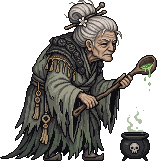
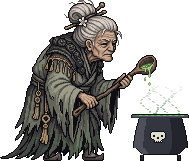
Manh Ba: tu ve vac to hon bang code
Claude-Session: https://claude.ai/code/session_01QQj46swudhcjrv1xLak4k8

diff --git a/game/index.html b/game/index.html
@@ -1738,7 +1738,7 @@ Object.assign(CHM,{"nguudau": {"w": 145, "h": 141, "ax": 72, "ay": 138, "src": "
 /* Hắc/Bạch Vô Thường: thiết kế ChatGPT, chuyển sang nét pixel game bằng PixelLab (24/11) */
 Object.assign(CHM,{"hacvo": {"w": 135, "h": 159, "ax": 67, "ay": 156, "src": "assets/hacvo_am.png", "proc": "walk", "anims": {"idle": {"fps": 8, "f": [[0, 0]]}, "run": {"fps": 8, "f": [[0, 0]]}, "attack": {"fps": 8, "f": [[0, 0]]}, "hit": {"fps": 8, "f": [[0, 0]]}, "death": {"fps": 8, "f": [[0, 0]]}}},"bachvo": {"w": 141, "h": 165, "ax": 70, "ay": 162, "src": "assets/bachvo_am.png", "proc": "walk", "anims": {"idle": {"fps": 8, "f": [[0, 0]]}, "run": {"fps": 8, "f": [[0, 0]]}, "attack": {"fps": 8, "f": [[0, 0]]}, "hit": {"fps": 8, "f": [[0, 0]]}, "death": {"fps": 8, "f": [[0, 0]]}}}});
 /* Diêm Vương, Phán Quan, Mạnh Bà: ảnh chủ game đưa (ChatGPT, 192x192 nền trong suốt, lưới pixel sạch) */
-Object.assign(CHM,{"diemvuong": {"w": 190, "h": 245, "ax": 95, "ay": 242, "src": "assets/diemvuong_am.png", "proc": "walk", "anims": {"idle": {"fps": 8, "f": [[0, 0]]}, "run": {"fps": 8, "f": [[0, 0]]}, "attack": {"fps": 8, "f": [[0, 0]]}, "hit": {"fps": 8, "f": [[0, 0]]}, "death": {"fps": 8, "f": [[0, 0]]}}},"phanquan": {"w": 123, "h": 133, "ax": 61, "ay": 130, "src": "assets/phanquan_am.png", "proc": "walk", "anims": {"idle": {"fps": 8, "f": [[0, 0]]}, "run": {"fps": 8, "f": [[0, 0]]}, "attack": {"fps": 8, "f": [[0, 0]]}, "hit": {"fps": 8, "f": [[0, 0]]}, "death": {"fps": 8, "f": [[0, 0]]}}},"manhba": {"w": 157, "h": 161, "ax": 78, "ay": 158, "src": "assets/manhba_am.png", "proc": "walk", "anims": {"idle": {"fps": 8, "f": [[0, 0]]}, "run": {"fps": 8, "f": [[0, 0]]}, "attack": {"fps": 8, "f": [[0, 0]]}, "hit": {"fps": 8, "f": [[0, 0]]}, "death": {"fps": 8, "f": [[0, 0]]}}}});
+Object.assign(CHM,{"diemvuong": {"w": 190, "h": 245, "ax": 95, "ay": 242, "src": "assets/diemvuong_am.png", "proc": "walk", "anims": {"idle": {"fps": 8, "f": [[0, 0]]}, "run": {"fps": 8, "f": [[0, 0]]}, "attack": {"fps": 8, "f": [[0, 0]]}, "hit": {"fps": 8, "f": [[0, 0]]}, "death": {"fps": 8, "f": [[0, 0]]}}},"phanquan": {"w": 123, "h": 133, "ax": 61, "ay": 130, "src": "assets/phanquan_am.png", "proc": "walk", "anims": {"idle": {"fps": 8, "f": [[0, 0]]}, "run": {"fps": 8, "f": [[0, 0]]}, "attack": {"fps": 8, "f": [[0, 0]]}, "hit": {"fps": 8, "f": [[0, 0]]}, "death": {"fps": 8, "f": [[0, 0]]}}},"manhba": {"w": 189, "h": 161, "ax": 70, "ay": 158, "src": "assets/manhba_am.png", "proc": "walk", "anims": {"idle": {"fps": 8, "f": [[0, 0]]}, "run": {"fps": 8, "f": [[0, 0]]}, "attack": {"fps": 8, "f": [[0, 0]]}, "hit": {"fps": 8, "f": [[0, 0]]}, "death": {"fps": 8, "f": [[0, 0]]}}}});
 // Nhân vật chính lấy từ gói Wuxia Vol.2 (cong_cu/wuxia_sheet.py): nam = Huyền Tiêu Kiếm Tông · Nam đệ tử,
 // nữ = Xích Diễm Đao Môn · Nữ đệ tử. Cả hai cầm kiếm cùng một kiểu khi đứng, đi và chém.
 // Thần Giáng Tôn Ngộ Không: sprite PixelLab (vẽ lại cỡ 144, khung xương có gậy + đuôi), đã kiểm từng frame.

diff --git a/cong_cu/claude/vac_manba.py b/cong_cu/claude/vac_manba.py
@@ -1,0 +1,64 @@
+# Ve lai vac cua Manh Ba to hon (tu lam bang code theo lenh chu game 24/11, khong PixelLab)
+from PIL import Image,ImageDraw
+import numpy as np,math,random
+src='nguon/pixellab/amgioi/sy3/manhba_s7_0.png'
+im=Image.open(src).convert('RGBA');im=im.crop(im.getbbox());a=np.array(im)
+a[98:,118:,3]=0                      # xoa vac nho + khoi cu
+bb=Image.fromarray(a);bb=bb.crop(bb.getbbox())
+W0,H0=bb.size
+CW,CH=54,46                            # kich co vac
+OUTL=(14,14,18,255);B1=(36,37,44,255);B2=(52,54,63,255);B3=(78,80,92,255);RIM=(96,98,110,255)
+CW+=6;cv=Image.new("RGBA",(CW,CH+34),(0,0,0,0));d=ImageDraw.Draw(cv)
+top=34;bh=CH-8
+cx=CW/2
+# than vac: hinh bau
+for y in range(bh):
+    t=y/(bh-1);w=(CW-6)/2*(0.78+0.22*math.sin(min(1,t*1.15)*math.pi/2*1.0))
+    if t>0.82:w*=0.9-(t-0.82)*1.4
+    x0=int(round(cx-w));x1=int(round(cx+w))
+    for x in range(x0,x1+1):
+        u=(x-x0)/max(1,(x1-x0))
+        c=B2
+        if u<0.18:c=B3
+        elif u>0.72:c=B1
+        if x in(x0,x1) or y==bh-1:c=OUTL
+        cv.putpixel((x,top+y),c)
+# vanh
+for x in range(2,CW-2):
+    for y in(top-2,top-1,top):
+        c=RIM if y==top-2 else B3 if y==top-1 else B2
+        cv.putpixel((x,y),c)
+for x in range(2,CW-2):
+    cv.putpixel((x,top-3),OUTL)
+for y in(top-2,top-1,top):cv.putpixel((1,y),OUTL);cv.putpixel((CW-2,y),OUTL)
+# mieng vac toi, nuoc xanh
+for x in range(6,CW-6):
+    cv.putpixel((x,top-2),(70,150,70,255) if (x//3)%2==0 else (108,190,92,255))
+# chan
+for lx in(10,CW-13):
+    for y in range(bh,bh+6):
+        for x in range(lx,lx+4):cv.putpixel((x,top+y),OUTL if x in(lx,lx+3) or y==bh+5 else B1)
+# dau lau
+sx,sy=int(cx)-9,top+14
+SK=["..XXXXXXXXXXXX..",".XWWWWWWWWWWWWX.","XWWWWWWWWWWWWWWX","XWWWWWWWWWWWWWWX","XWWKKWWWWWWKKWWX","XWWKKWWWWWWKKWWX","XWWWWWWKKWWWWWWX",".XWWWWWKKWWWWWX.","..XXWWWWWWWWXX..","....XWWWWWWX....","....XWKWKWKWX...","....XXXXXXXX...."]
+pal={'X':OUTL,'W':(222,222,208,255),'K':(20,20,24,255)}
+for j,row in enumerate(SK):
+    for i,ch in enumerate(row):
+        if ch in pal:cv.putpixel((sx-1+i,sy+j),pal[ch])
+# khoi xanh
+random.seed(4)
+for k in range(5):
+    x0=cx-14+k*7
+    for y in range(top-4,2,-1):
+        xx=int(x0+4*math.sin(y/4.0+k*1.7)*(1+(top-y)/40))
+        if (y+k)%3==0:continue
+        al=int(255*(1-(top-y)/(top+4)))
+        for dx in(0,1):
+            if 0<=xx+dx<CW:cv.putpixel((xx+dx,y),(168,205,160,al) if (y%2) else (126,172,120,al))
+cv=cv.crop(cv.getbbox())
+GAP=-26
+Wt=W0+cv.width+GAP;Ht=max(H0,cv.height)
+out=Image.new('RGBA',(Wt,Ht),(0,0,0,0))
+out.alpha_composite(cv,(W0+GAP,Ht-cv.height))
+out.alpha_composite(bb,(0,Ht-H0))
+out=out.crop(out.getbbox());out.save('game/assets/manhba_am.png');print(out.size)

diff --git a/CLAUDE.md b/CLAUDE.md
@@ -422,3 +422,4 @@ Chủ game gửi ảnh sảnh iPhone ngang (~664×307, trong trình duyệt nên
 
 ## Phán Quan, Mạnh Bà tạo lại từ master (24/11 đêm, chủ game ra lệnh: bỏ ảnh ChatGPT, lấy Hắc/Bạch Vô Thường, Ngưu Đầu, Mã Diện làm master)
 - `edit-images-v2`, đầu vào là sprite master (Phán Quan từ `hacvo`, Mạnh Bà từ `bachvo`), mô tả nhân vật mới + "same pixel art style/grid/outline/palette" (`nguon/pixellab/amgioi/gen_master.py`, kết quả `sy3/`, seed 7, 20 lượt). Thay `phanquan_am.png`, `manhba_am.png`. Bản ChatGPT 96×96 và bản `sy/`, `sy2/` bỏ. Ảnh so sánh: `nguon/tham_chieu/phanquan_manhba_tu_master_x3.png`. Chưa chụp kiểm độ nét ở 3 loại màn, chưa đăng artifact.
+- (24/11 đêm) **Vạc Mạnh Bà TỰ VẼ bằng code** (chủ game ra lệnh, không PixelLab, `cong_cu/claude/vac_manba.py`): xóa vạc nhỏ của bản PixelLab, vẽ vạc to (54×46 + chân, vành, nước xanh, đầu lâu, khói) đặt sát bà dưới muôi. `manhba_am.png` nay 189×161. Phán Quan (123×133) vẫn thấp hơn các trùm khác, chưa sửa: muốn cao hơn phải vẽ lại bằng PixelLab hoặc phóng hệ số lẻ (mềm nét).
